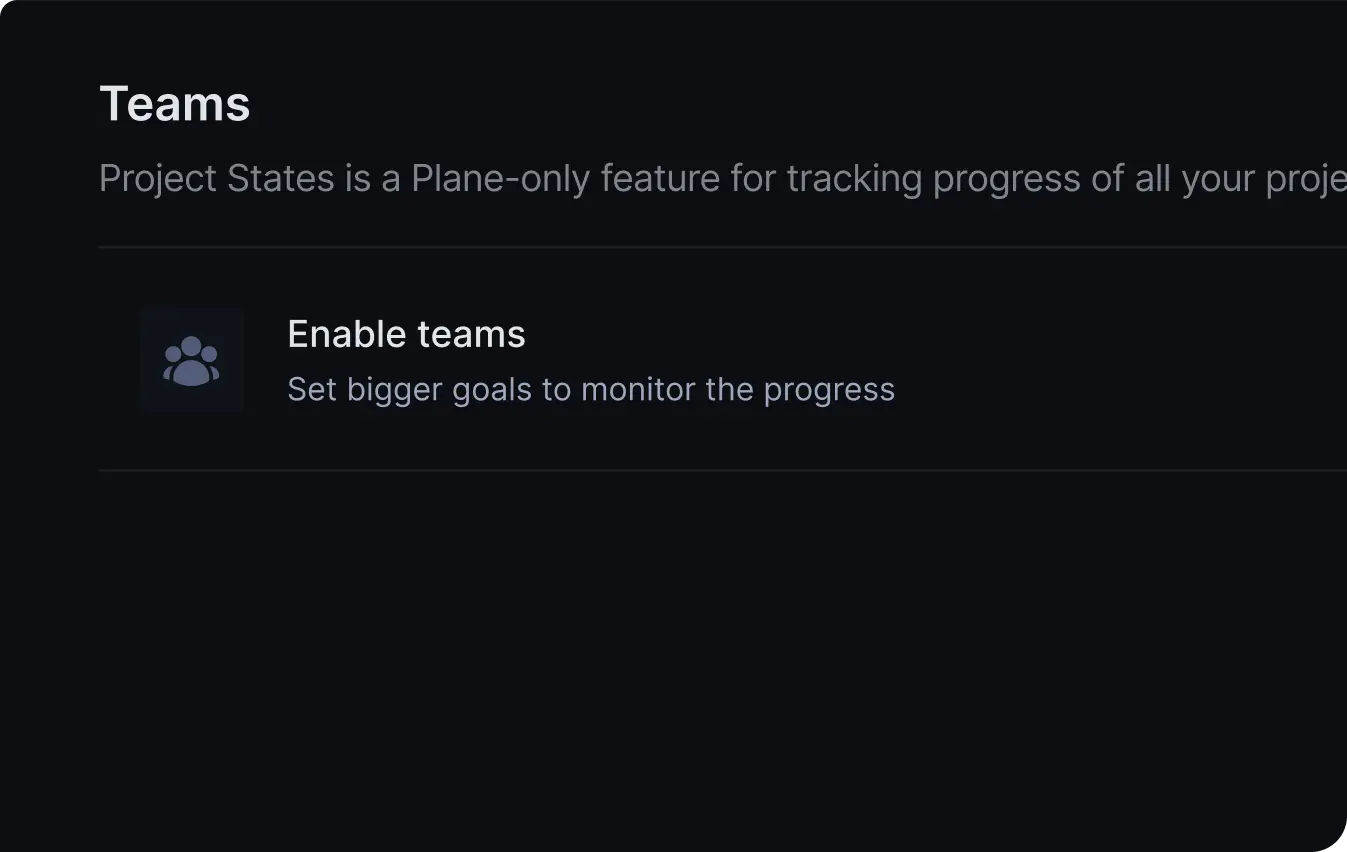
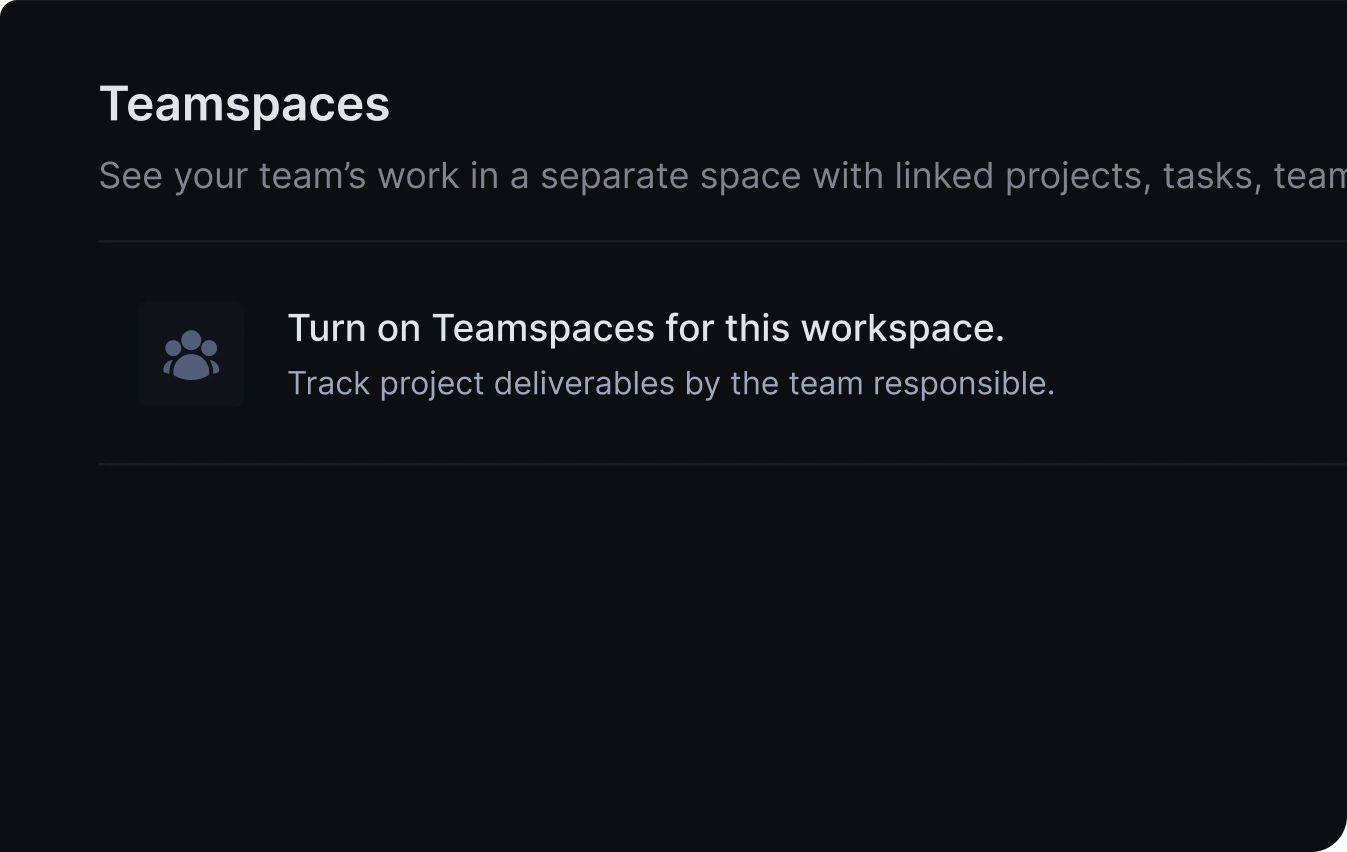
[WEB-3201] improvement: team charts loader and cycle progress fix (#2293)
* chore: add loader for teams progress and stats charts when filters are updated

* fix: teams cycle list progress

* chore: teamspace upgrade settings page

diff --git a/web/ee/components/teams/upgrade.tsx b/web/ee/components/teams/upgrade.tsx
@@ -3,24 +3,24 @@
 import { FC } from "react";
 import { observer } from "mobx-react";
 import Image from "next/image";
-// import Link from "next/link";
+import Link from "next/link";
 import { useTheme } from "next-themes";
-// import { Crown } from "lucide-react";
+import { Crown } from "lucide-react";
 // ui
 import { Button, getButtonStyling } from "@plane/ui";
 // helpers
 import { cn } from "@/helpers/common.helper";
 // plane web hooks
-// import { useWorkspaceSubscription } from "@/plane-web/hooks/store";
+import { useWorkspaceSubscription } from "@/plane-web/hooks/store";
 // assets
 import TeamsUpgradeDark from "@/public/empty-state/teams/dark-upgrade.webp";
 import TeamsUpgradeLight from "@/public/empty-state/teams/light-upgrade.webp";
 
 export const TeamsUpgrade: FC = observer(() => {
   const { resolvedTheme } = useTheme();
-  // const { currentWorkspaceSubscribedPlanDetail: subscriptionDetail, togglePaidPlanModal } = useWorkspaceSubscription();
+  const { currentWorkspaceSubscribedPlanDetail: subscriptionDetail, togglePaidPlanModal } = useWorkspaceSubscription();
   // derived values
-  // const isSelfManagedUpgradeDisabled = subscriptionDetail?.is_self_managed && subscriptionDetail?.product !== "FREE";
+  const isSelfManagedUpgradeDisabled = subscriptionDetail?.is_self_managed && subscriptionDetail?.product !== "FREE";
 
   return (
     <div className="pr-10">
@@ -32,13 +32,12 @@ export const TeamsUpgrade: FC = observer(() => {
       >
         <div className={cn("flex w-full flex-col  justify-center relative p-5 xl:pl-10 xl:min-h-[25rem]")}>
           <div className="w-full xl:max-w-[300px]">
-            <div className="text-2xl font-semibold">Organize work even better with Teams.</div>
+            <div className="text-2xl font-semibold">Organize work even better with Teamspaces.</div>
             <div className="text-sm">
-              Get Teams with a Pro or higher subscription and organize people + their work into a separate space.
+              Get Teamspaces with a Pro or higher subscription and organize people + their work into a separate space.
             </div>
             <div className="flex mt-6 gap-4 flex-wrap">
-              <Button disabled>Coming Soon</Button>
-              {/* {isSelfManagedUpgradeDisabled ? (
+              {isSelfManagedUpgradeDisabled ? (
                 <a href="https://prime.plane.so/" target="_blank" className={getButtonStyling("primary", "md")}>
                   <Crown className="h-3.5 w-3.5" />
                   Get Pro
@@ -56,7 +55,7 @@ export const TeamsUpgrade: FC = observer(() => {
                 onClick={() => {}}
               >
                 Get custom quote
-              </Link> */}
+              </Link>
             </div>
           </div>
         </div>

diff --git a/web/app/[workspaceSlug]/(projects)/settings/teams/page.tsx b/web/app/[workspaceSlug]/(projects)/settings/teams/page.tsx
@@ -71,9 +71,9 @@ const TeamsSettingsPage = observer(() => {
     <>
       <PageHead title={pageTitle} />
       <div className="border-b border-custom-border-200 pb-3 tracking-tight">
-        <h3 className="text-xl font-medium">Teams</h3>
+        <h3 className="text-xl font-medium">Teamspaces</h3>
         <span className="text-custom-sidebar-text-400 text-sm font-medium">
-          Teams is a feature for organizing your workspace into teams.
+          See your team’s work in a separate space with linked projects, tasks, team charts, pages, and views.
         </span>
       </div>
       <WithFeatureFlagHOC flag="TEAMSPACES" fallback={<TeamsUpgrade />} workspaceSlug={workspaceSlug?.toString()}>
@@ -83,8 +83,10 @@ const TeamsSettingsPage = observer(() => {
               <TeamsIcon className="size-5 text-custom-text-300" />
             </div>
             <div className="leading-tight">
-              <h5 className="font-medium">Enable Teams</h5>
-              <span className="text-custom-sidebar-text-400 text-sm">Set bigger goals to monitor the progress</span>
+              <h5 className="font-medium">Turn on Teamspaces for this workspace.</h5>
+              <span className="text-custom-sidebar-text-400 text-sm">
+                Once turned on, you can’t turn this feature off.
+              </span>
             </div>
           </div>
           <Tooltip tooltipContent={"Teams can't be disabled"} disabled={!isTeamsFeatureEnabled} position="left">

diff --git a/web/ee/components/teams/overview/progress/chart.tsx b/web/ee/components/teams/overview/progress/chart.tsx
@@ -55,7 +55,6 @@ export const TeamProgressChart: React.FC<TTeamProgressChartProps> = observer((pr
   // derived values
   const teamEntitiesLoader = getTeamEntitiesLoaderById(teamId);
   const loader = getTeamProgressChartLoader(teamId);
-  const isLoading = loader === "init-loader" || teamEntitiesLoader === "init-loader";
   const isUpdating = loader && ["init-loader", "mutation"].includes(loader);
   // Format data in case of date
   const modifiedData = useMemo(() => {
@@ -94,7 +93,7 @@ export const TeamProgressChart: React.FC<TTeamProgressChartProps> = observer((pr
         />
         {isUpdating && <Spinner size={14} className="animate-spin flex-shrink-0 mx-1" />}
       </div>
-      {isLoading ? (
+      {teamEntitiesLoader === "init-loader" || isUpdating ? (
         <Loader className="w-full h-96 flex items-center justify-center">
           <Loader.Item width="96%" height="100%" />
         </Loader>

diff --git a/web/ee/components/teams/overview/statistics/chart.tsx b/web/ee/components/teams/overview/statistics/chart.tsx
@@ -143,7 +143,7 @@ export const TeamStatisticsMap: React.FC<TTeamStatisticsMapProps> = observer((pr
 
   return (
     <>
-      {isLoading ? (
+      {isUpdating ? (
         <Loader className="w-full h-96 flex items-center justify-center">
           <Loader.Item width="100%" height="100%" />
         </Loader>

diff --git a/apiserver/plane/ee/views/app/team/cycle.py b/apiserver/plane/ee/views/app/team/cycle.py
@@ -58,9 +58,7 @@ class TeamSpaceCycleEndpoint(TeamBaseEndpoint):
             .prefetch_related(
                 Prefetch(
                     "issue_cycle__issue__labels",
-                    queryset=Label.objects.only(
-                        "name", "color", "id"
-                    ).distinct(),
+                    queryset=Label.objects.only("name", "color", "id").distinct(),
                 )
             )
             .annotate(is_favorite=Exists(favorite_subquery))
@@ -88,15 +86,57 @@ class TeamSpaceCycleEndpoint(TeamBaseEndpoint):
                 )
             )
             .annotate(
+                cancelled_issues=Count(
+                    "issue_cycle__issue__state__group",
+                    filter=Q(
+                        issue_cycle__issue__state__group="cancelled",
+                        issue_cycle__issue__archived_at__isnull=True,
+                        issue_cycle__issue__is_draft=False,
+                        issue_cycle__deleted_at__isnull=True,
+                    ),
+                )
+            )
+            .annotate(
+                started_issues=Count(
+                    "issue_cycle__issue__state__group",
+                    filter=Q(
+                        issue_cycle__issue__state__group="started",
+                        issue_cycle__issue__archived_at__isnull=True,
+                        issue_cycle__issue__is_draft=False,
+                        issue_cycle__deleted_at__isnull=True,
+                    ),
+                )
+            )
+            .annotate(
+                unstarted_issues=Count(
+                    "issue_cycle__issue__state__group",
+                    filter=Q(
+                        issue_cycle__issue__state__group="unstarted",
+                        issue_cycle__issue__archived_at__isnull=True,
+                        issue_cycle__issue__is_draft=False,
+                        issue_cycle__deleted_at__isnull=True,
+                    ),
+                )
+            )
+            .annotate(
+                backlog_issues=Count(
+                    "issue_cycle__issue__state__group",
+                    filter=Q(
+                        issue_cycle__issue__state__group="backlog",
+                        issue_cycle__issue__archived_at__isnull=True,
+                        issue_cycle__issue__is_draft=False,
+                        issue_cycle__deleted_at__isnull=True,
+                    ),
+                )
+            )
+            .annotate(
                 status=Case(
                     When(
                         Q(start_date__lte=timezone.now())
                         & Q(end_date__gte=timezone.now()),
                         then=Value("CURRENT"),
                     ),
-                    When(
-                        start_date__gt=timezone.now(), then=Value("UPCOMING")
-                    ),
+                    When(start_date__gt=timezone.now(), then=Value("UPCOMING")),
                     When(end_date__lt=timezone.now(), then=Value("COMPLETED")),
                     When(
                         Q(start_date__isnull=True) & Q(end_date__isnull=True),
@@ -111,9 +151,7 @@ class TeamSpaceCycleEndpoint(TeamBaseEndpoint):
                     ArrayAgg(
                         "issue_cycle__issue__assignees__id",
                         distinct=True,
-                        filter=~Q(
-                            issue_cycle__issue__assignees__id__isnull=True
-                        )
+                        filter=~Q(issue_cycle__issue__assignees__id__isnull=True)
                         & (
                             Q(
                                 issue_cycle__issue__issue_assignee__deleted_at__isnull=True
@@ -133,49 +171,11 @@ class TeamSpaceCycleEndpoint(TeamBaseEndpoint):
             workspace__slug=slug, team_space_id=team_space_id
         ).values_list("project_id", flat=True)
 
-        queryset = self.get_queryset().filter(
-            archived_at__isnull=True, project_id__in=project_ids
+        queryset = (
+            self.get_queryset()
+            .filter(archived_at__isnull=True, project_id__in=project_ids)
+            .order_by("-is_favorite", "-created_at")
         )
-        cycle_view = request.GET.get("cycle_view", "all")
-
-        # Update the order by
-        queryset = queryset.order_by("-is_favorite", "-created_at")
-
-        # Current Cycle
-        if cycle_view == "current":
-            queryset = queryset.filter(
-                start_date__lte=timezone.now(),
-                end_date__gte=timezone.now(),
-            )
-
-            data = queryset.values(
-                # necessary fields
-                "id",
-                "workspace_id",
-                "project_id",
-                # model fields
-                "name",
-                "description",
-                "start_date",
-                "end_date",
-                "owned_by_id",
-                "view_props",
-                "sort_order",
-                "external_source",
-                "external_id",
-                "progress_snapshot",
-                "logo_props",
-                "is_favorite",
-                "total_issues",
-                "completed_issues",
-                "assignee_ids",
-                "status",
-                "version",
-                "created_by",
-            )
-
-            if data:
-                return Response(data, status=status.HTTP_200_OK)
 
         data = queryset.values(
             # necessary fields
@@ -198,6 +198,10 @@ class TeamSpaceCycleEndpoint(TeamBaseEndpoint):
             "is_favorite",
             "total_issues",
             "completed_issues",
+            "cancelled_issues",
+            "started_issues",
+            "unstarted_issues",
+            "backlog_issues",
             "assignee_ids",
             "status",
             "version",
